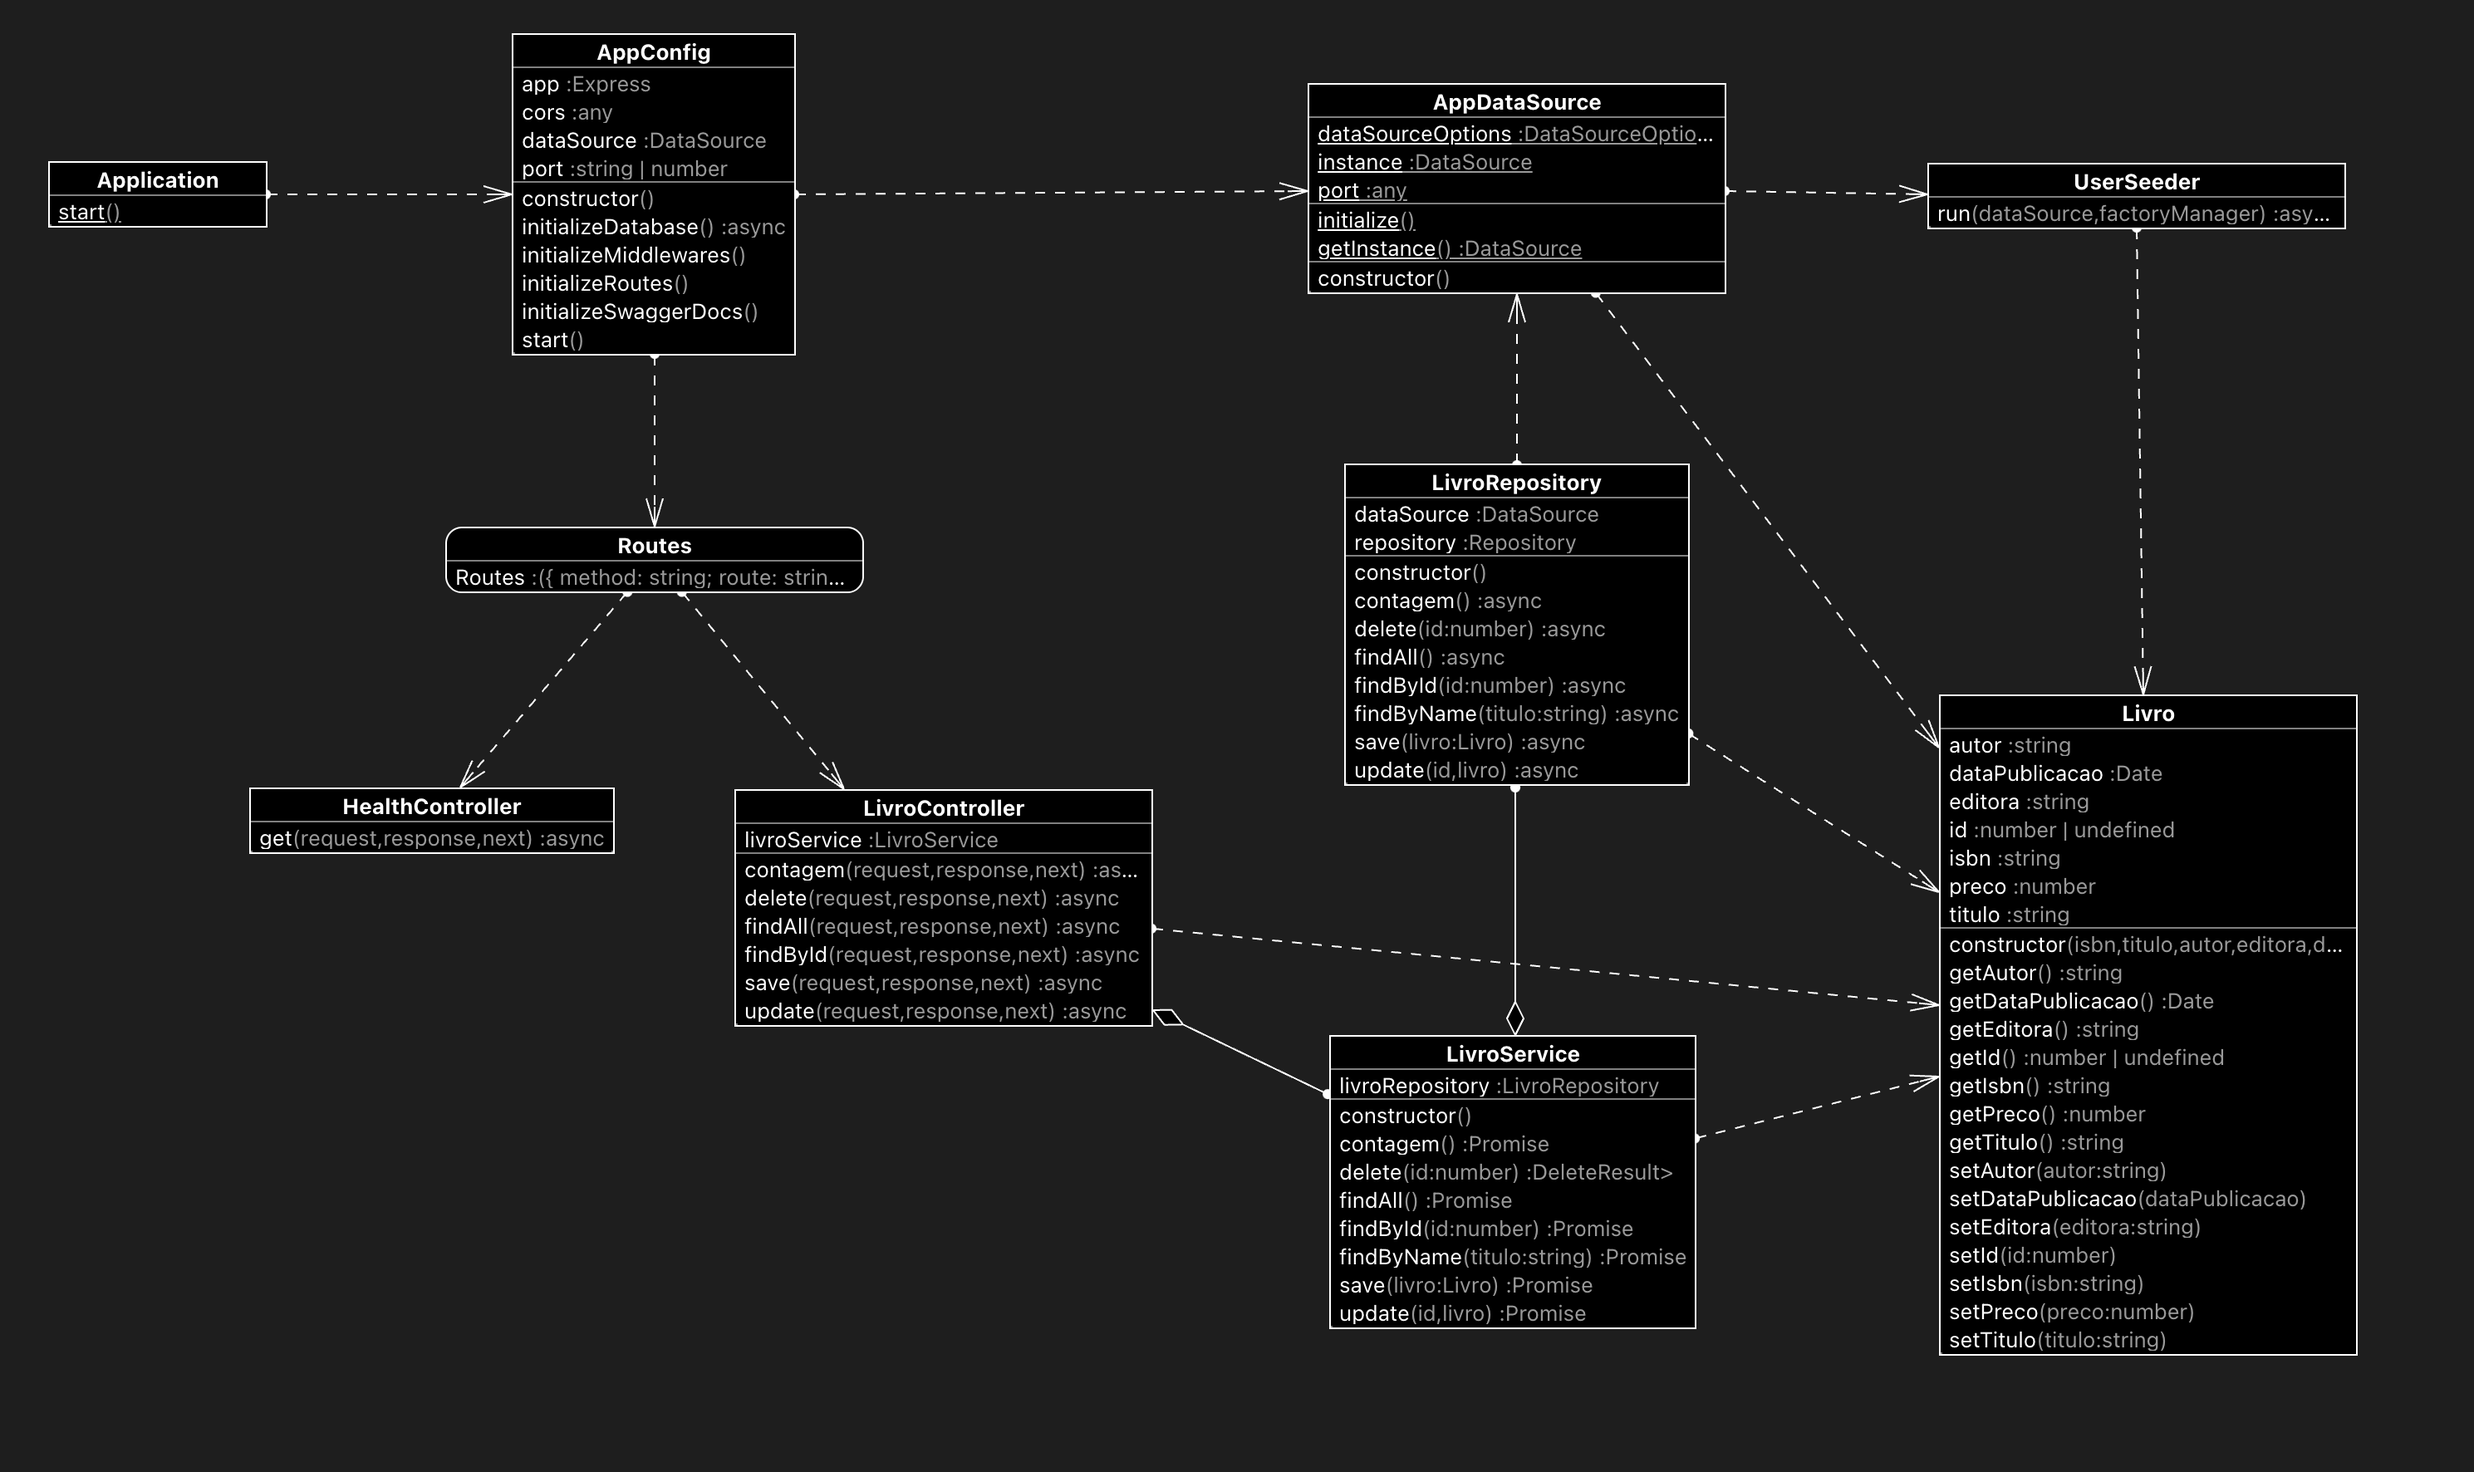
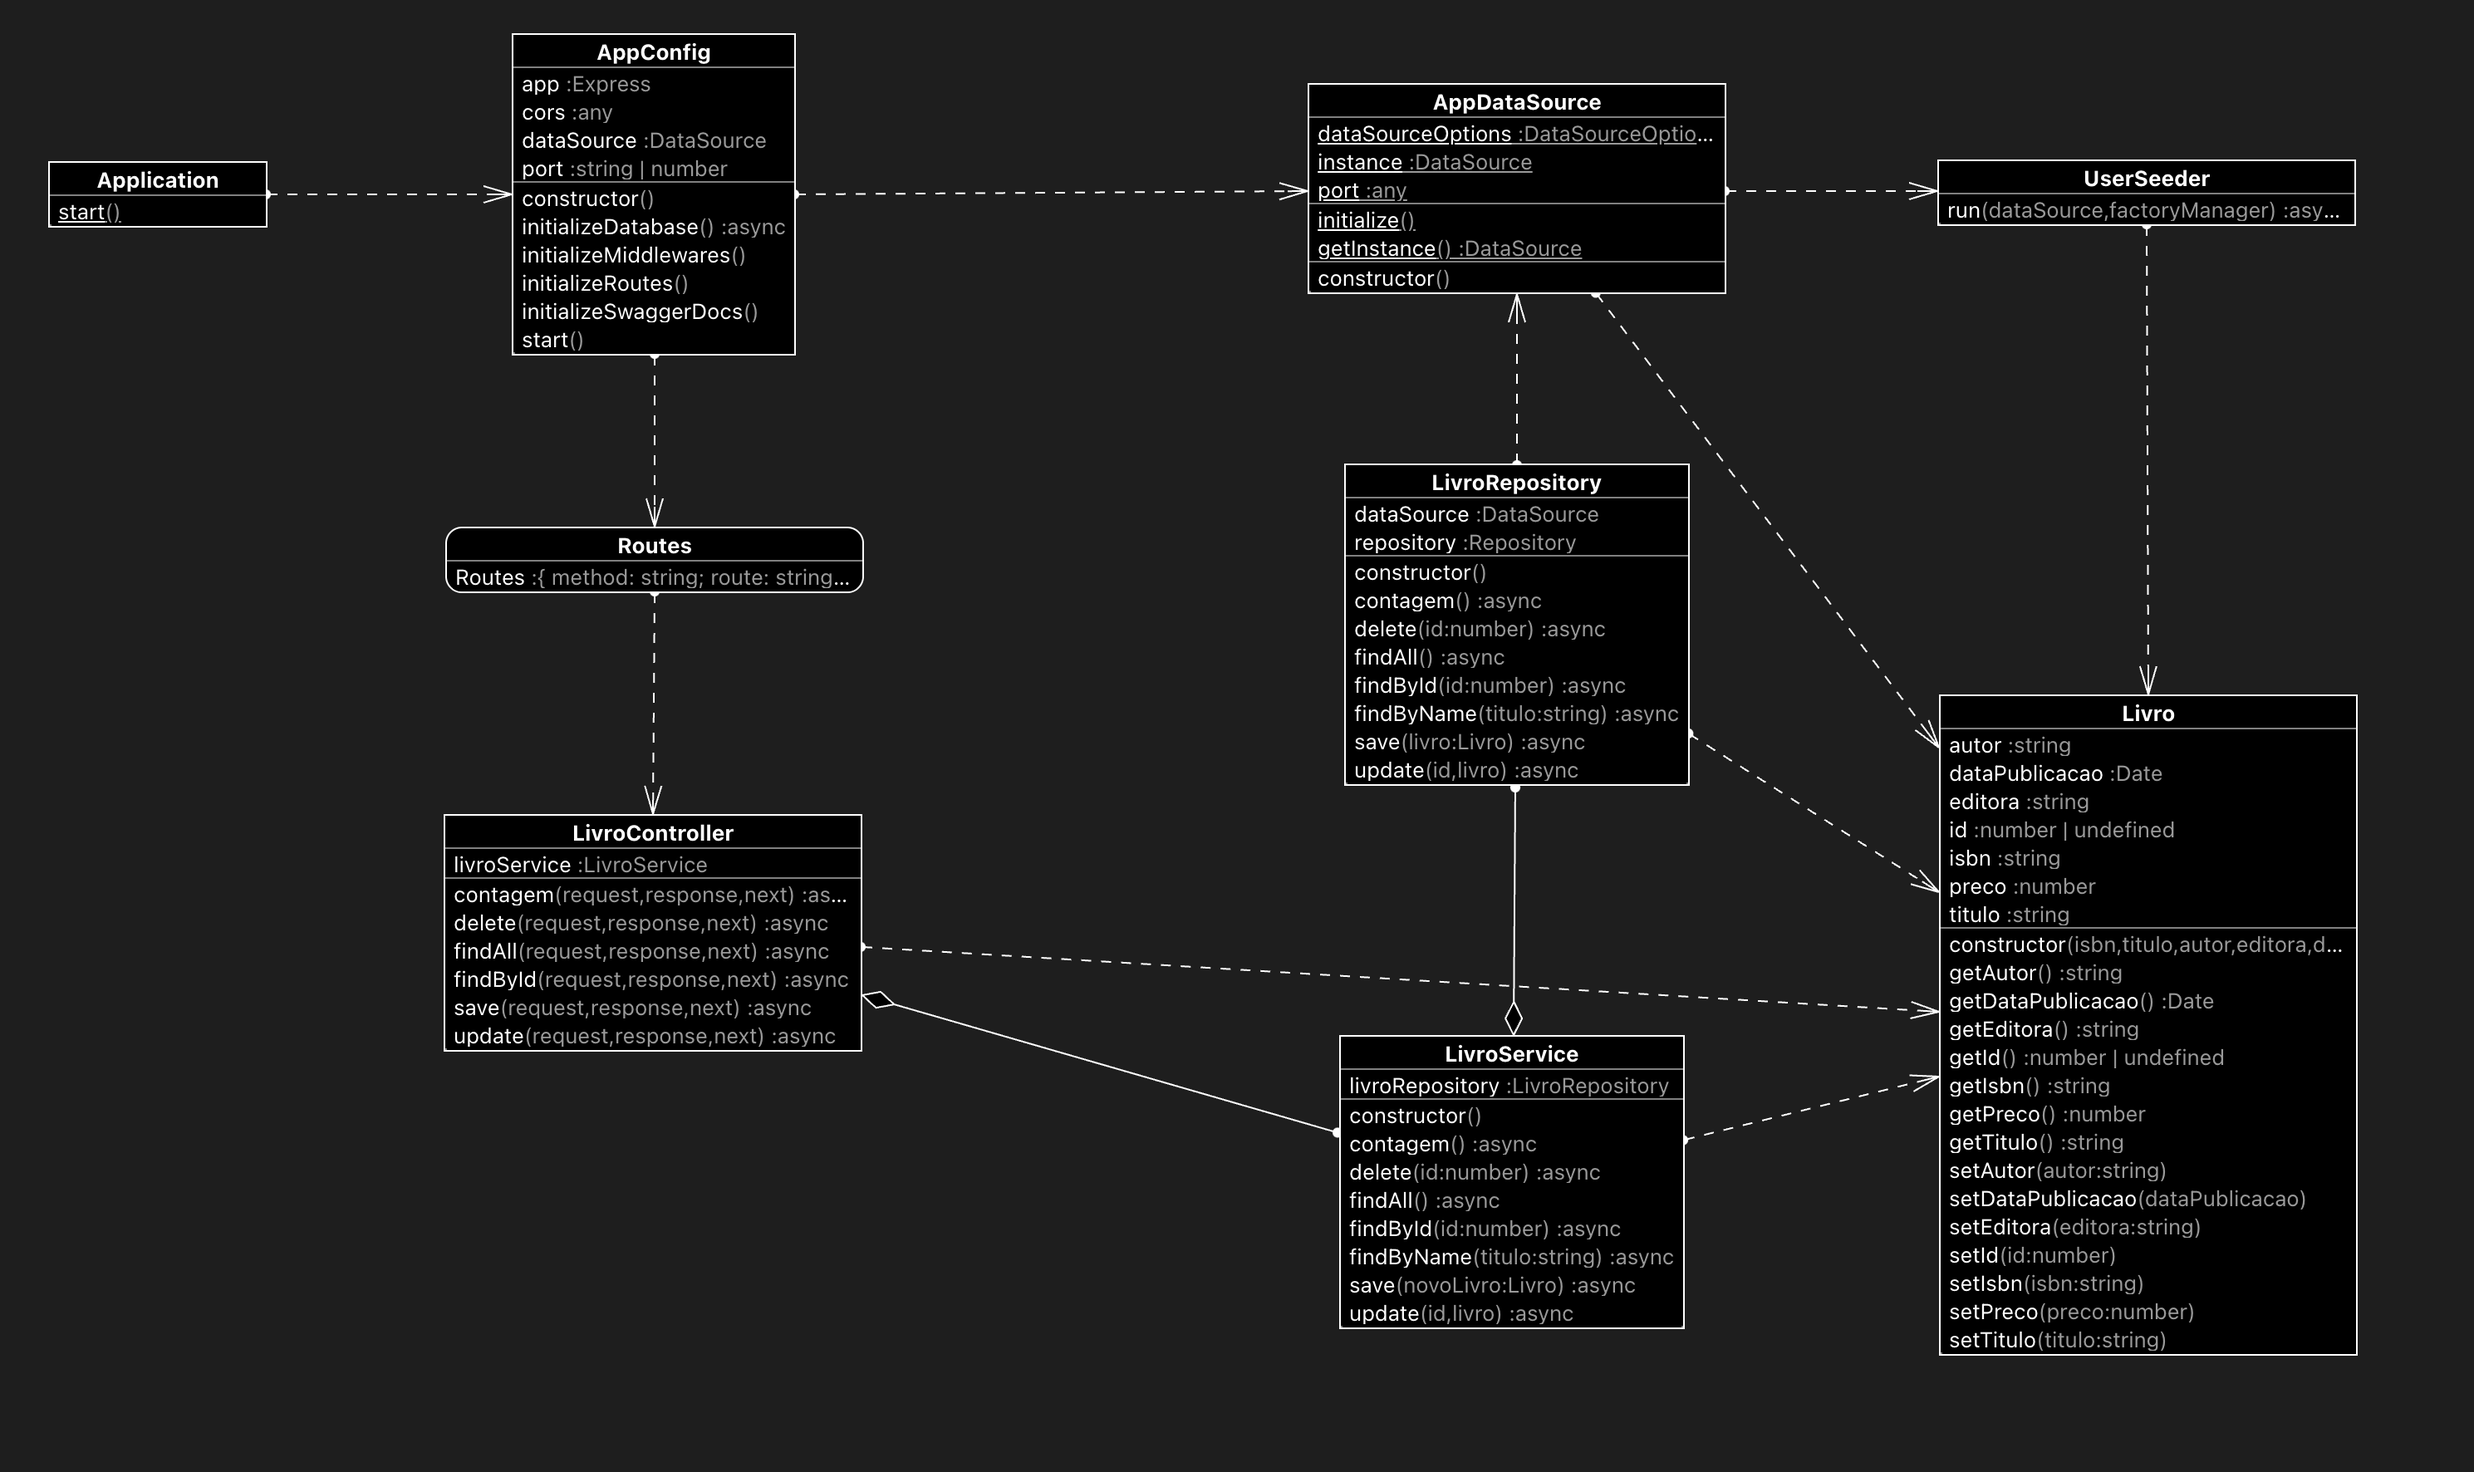
Remocao de endpoint desnecessario e atualizacao de diagrama de classe

diff --git a/src/routes/routes.ts b/src/routes/routes.ts
@@ -1,13 +1,6 @@
-import { HealthController } from "../controller/HealthController";
 import { LivroController } from "../controller/LivroController";
 
 export const Routes = [
-    {
-        method: "get",
-        route: "/api/health",
-        controller: HealthController,
-        action: "get"
-    },
     {
         method: "get",
         route: "/api/livro",
